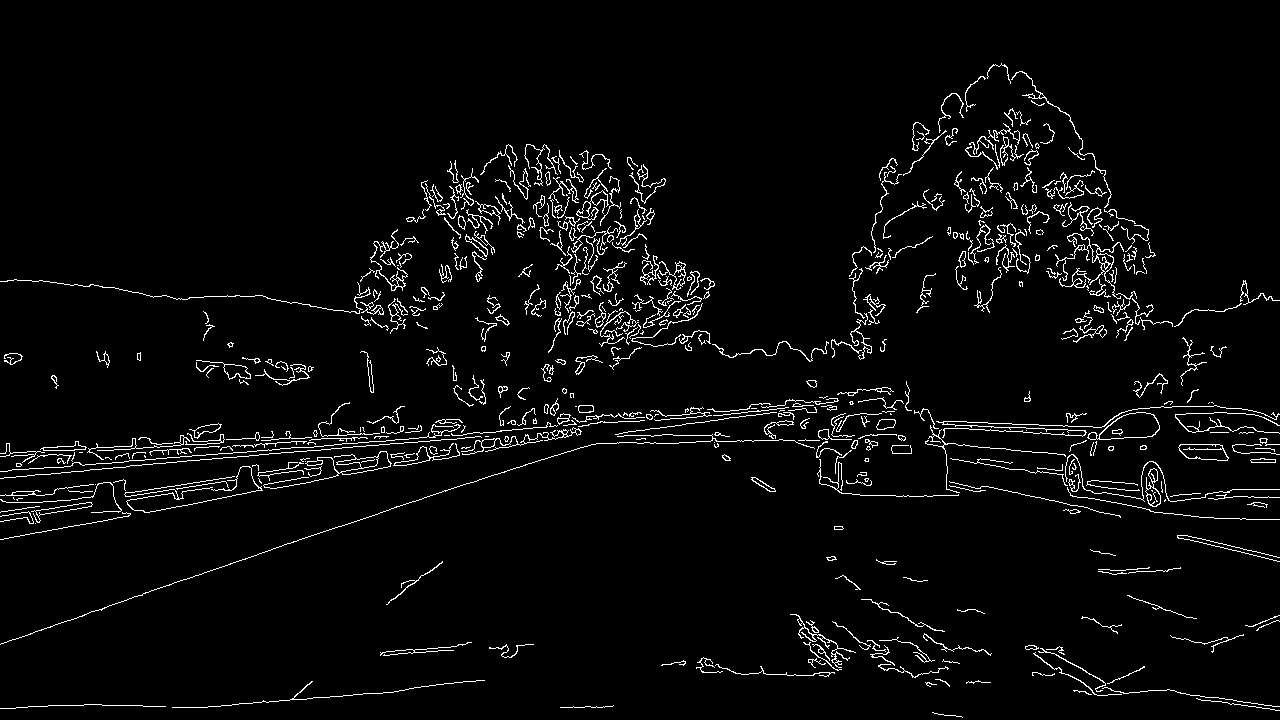
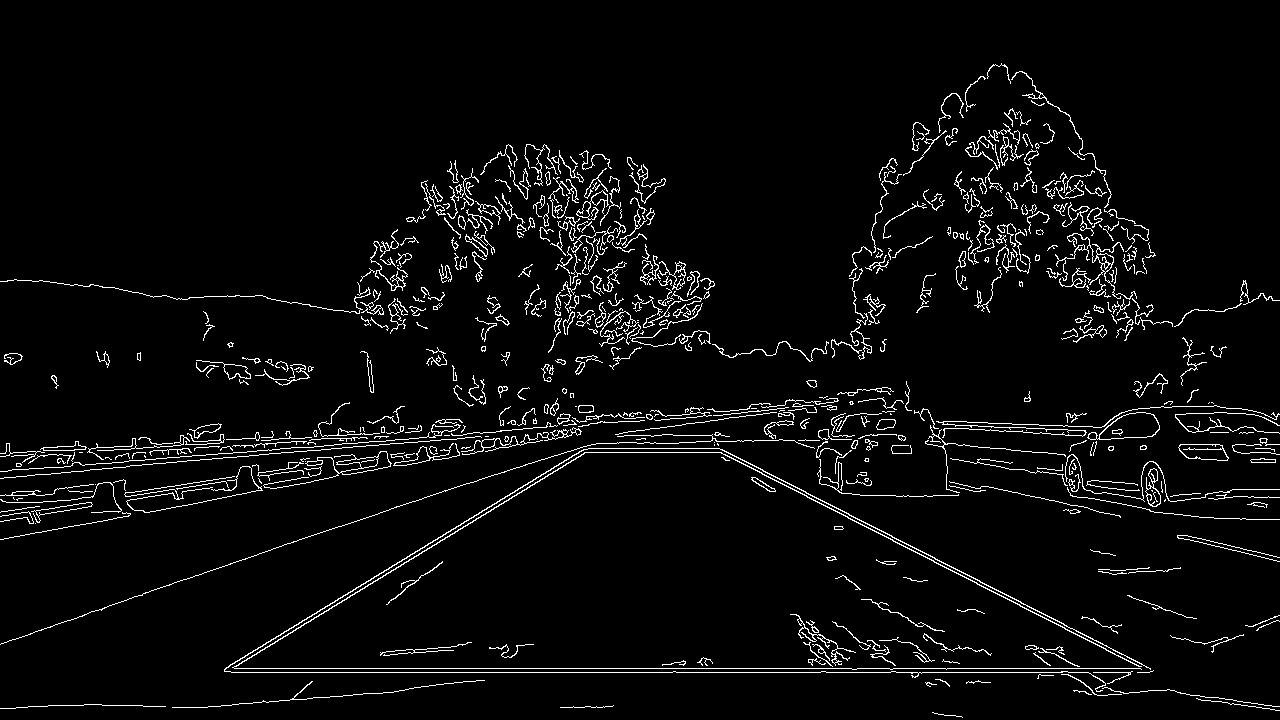
update

diff --git a/main.py b/main.py
@@ -375,12 +375,12 @@ def proc_pipeline(objpoints, imgpoints, img, save_interm_results = 0, name = '',
     bl = [0,img_size[1]] # bottom right
 
     # Define dst matrix for warping Udacity
-    tl = [0,0] # top left
-    tr = [img_size[0] + 100,0] # bottom left
-    br = [img_size[0],img_size[1]] # top right
-    bl = [0 + 100,img_size[1]] # bottom right OK
+    tl_dst = [320, 0] # top left
+    tr_dst = [960, 0] # bottom left
+    br_dst = [960, 720] # top right
+    bl_dst = [320, 720] # bottom right OK
 
-    dst = np.float32([[tl, tr, br, bl]])
+    dst = np.float32([[tl_dst, tr_dst, br_dst, bl_dst]])
 
 
 

diff --git a/README.md b/README.md
@@ -113,25 +113,16 @@ Sanity check that straight lines are transformed as straight lines.
 ![](./test_images/straight_lines1.jpg)
 ![](./output_images/ines1_perspectivetransformed.jpg)
 
-
-
-
-
-TBD
-TBD
-TBD
-This resulted in the following source and destination points:
+I used the following source and destination points:
 
 | Source        | Destination   |
 |:-------------:|:-------------:|
-| 585, 460      | 320, 0        |
-| 203, 720      | 320, 720      |
-| 1127, 720     | 960, 720      |
-| 695, 460      | 960, 0        |
-TBD
-TBD
-TBD
+| 585, 450 tl   | 320, 0        |
+| 225, 670 bl   | 320, 720      |
+| 1150, 670 br  | 960, 720      |
+| 720, 450 tr   | 960, 0        |
 
+tr = top right, bl = bottom left
 
 ####4. Describe how (and identify where in your code) you identified lane-line pixels and fit their positions with a polynomial?
 
